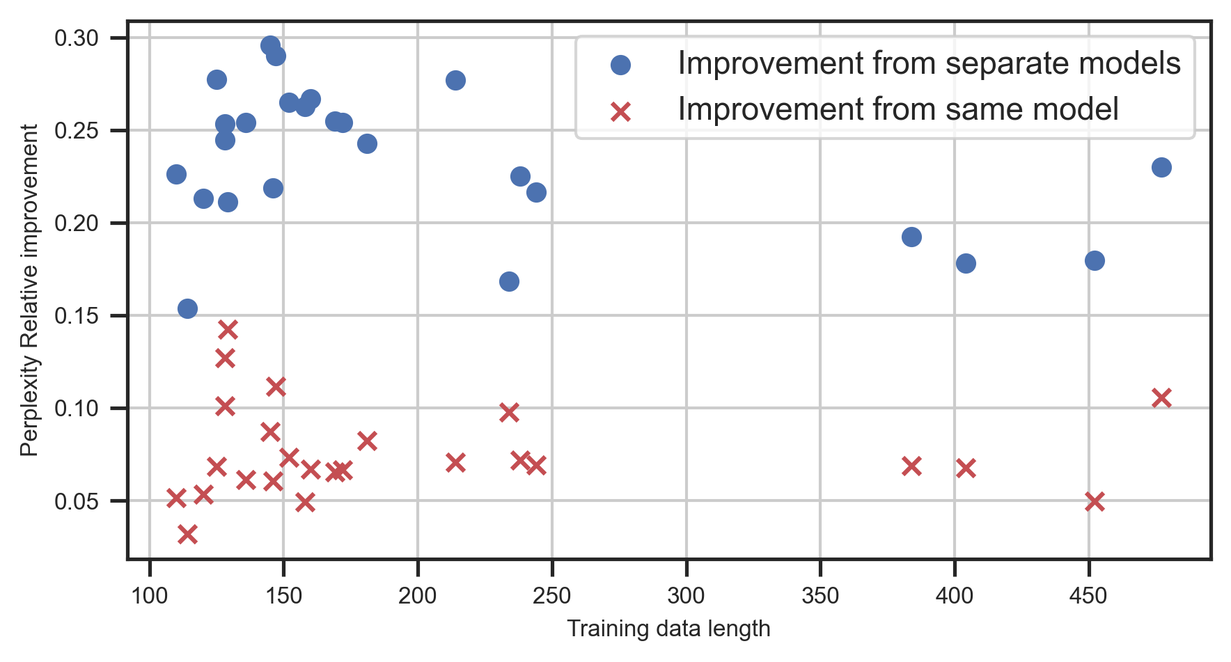
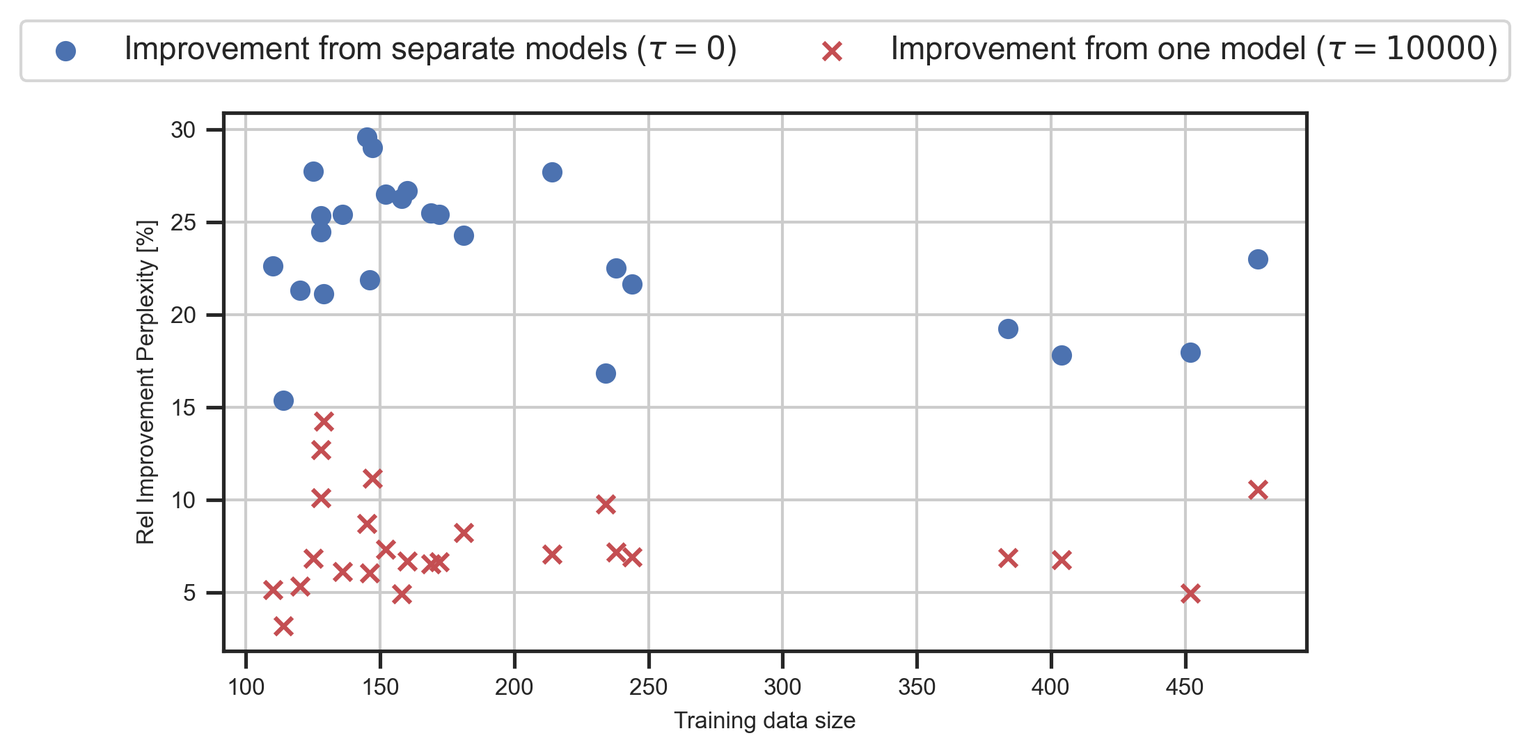
lots of writing and plots

Changed region(s): [[0.0, 0.0, 0.9955, 0.9758], [0.9333, 0.244, 0.9644, 0.2744], [0.871, 0.8843, 0.9021, 0.9148]]

diff --git a/paper/main.tex b/paper/main.tex
@@ -1,9 +1,13 @@
 \documentclass{article}
 \usepackage{graphicx} % Required for inserting images
+\usepackage{authblk}
 
-\title{HLoRA: Hierarchical Large Language Models for Multi-task problems}
-\author{simen }
-\date{November 2023}
+\title{HLoRA: Hierarchical Low-Rank Adaption for Multi-task Large Language Models}
+\author[1]{Simen Eide}
+\author[2]{Arnoldo Frigessi}
+\affil[1]{University of Oslo, Schibsted}
+\affil[1]{University of Oslo}
+\date{March 2024}
 
 \usepackage[
 backend=biber,
@@ -19,18 +23,35 @@ sorting=ynt
 \begin{document}
 
 \maketitle
+\abstract{Lorem Ipsum}
 
 \section{Introduction}
-Large Language Models (LLM) have become a popular tool for solving a wide range of text problems. LLMs are typically pretrained on a large and diverse dataset, and then fine-tuned on a specific task. The fine-tuning process is often done by minimizing the negative log-likelihood of the task-specific dataset, and the resulting model is then used to make predictions on new data. A popular fine-tuning method is Low-Rank Adaption (LoRA), which reduces the number of trainable parameters by 10'000 times and the GPU memory requirement by 3 times, while still outperforming other fine-tuning techniques (\cite{hu_lora_2021}).
+Large Language Models (LLM) have become a popular model architechture for solving a wide range of text problems. LLMs are typically pretrained on a large and diverse dataset, and then fine-tuned on a specific task. The fine-tuning process is often done by maximizing the next token log likelihood of the task-specific dataset, and the resulting model is then used to make predictions and generations on new data. A popular fine-tuning method is Low-Rank Adaption (LoRA), which reduces the number of trainable parameters by up to 10'000 times and the GPU memory requirement by 3 times, while still outperforming other fine-tuning techniques (\cite{hu_lora_2021}).
 
-This paper presents a generalization of the LoRA fine-tuning method for multi-task problems, which we refer to as Hierarchical LoRA. The Hierarchical LoRA method allows tasks to share information between each other through a global parameter set, and can be seen as a generalization of the two conventional approaches for multi-task problems: (1) finetuning each task separately, and (2) training one model for all tasks. We evaluate the Hierarchical LoRA method on a benchmark dataset, and show that there exist a trade-off between the global and task-specific parameters that can be tuned to optimize the model's performance.
+When applying fine-tuning of LLMs to problems, the practitioner often wants to solve multiple similar tasks at the same time. 
+For instance, a news organization might want to use an LLM to generate various textual elements for a given article such as headlines, keywords, and summaries, all based on the main body of the text. This would involve fine-tuning the model for each of these distinct but related tasks.
+Similarly, a customer service chatbot might need to be fine-tuned to handle inquiries across a range of topics, such as product information, order status, and troubleshooting. Additionally, the chatbot might need to adapt its responses based on the user's tone or the formality of the conversation, requiring further fine-tuning.
+In a more creative context, a scriptwriting AI might be fine-tuned to generate dialogues for different characters in a movie, each with their unique style and vocabulary. This would involve fine-tuning the model for each character, a set of related but distinct tasks.
 
-\begin{itemize}
-    \item Typically one finetune each task separately, as written in \ref{eq:lik}.
-    \item If the D tasks are more similar to eachother than the pretraining corpus, the optimal parameters $\hat{\theta}_d$ should share some information during training in order to maximize their likelihood.
-\end{itemize}
+In these cases, the practitioner can either (1) train one model for each task separately, or (2) train one model for all tasks and condition the specific output wanted (e.g \cite{Raffel2019}).
+There is a trade-off between these two approaches: Train each task separately and the model will be able to specialize on each task, but it may suffer from limited data for each task. Train one model for all tasks, and the model will be able to share information between tasks, but it may not be able to specialize on each task due to limited model capacity.
 
-\section{Related works}
+This paper suggests a way to circumvent these trade-offs and presents a generalization of the two LoRA fine-tuning methods for multi-task problems, which we call Hierarchical Low-Rank Adaption method (HLoRA).
+The Hierarchical LoRA method allows tasks to share information between each other through sharing a set of global hierarchical prior parameters. 
+This means that tasks with little data can benefit from the global structure of the related tasks, while tasks with more data can specialize on their specific task.
+We show in Section \ref{sec:hlora} that HLoRA can be seen as a generalization of the two approaches above.
+
+To test our method, we evaluate the Hierarchical LoRA method on the next token generation problem of parliament speeches letting each parliament representative be a task. In our setting, HLoRA is superior to both conventional approaches above and suggest a way to mitigate the trade-off between the two.
+% Write something about how easy it is to implement and how it can be used in practice?
+
+The paper is organized as follows: Section \ref{sec:related_works} presents related works, Section \ref{sec:method} presents the Hierarchical LoRA method, (...)
+
+% Should this fact be added somewhere?
+% If the D tasks are more similar to eachother than the pretraining corpus, the optimal parameters $\hat{\theta}_d$ should share some information during training in order to maximize their likelihood.
+
+
+\section{Related works} \label{sec:related_works}
+%%%%%%%%%%%%%%%%%%%%%%%%%%%%%%%%%%
 
 \subsection{Multi-task Learning}
 Multi-task Learning \cite{caruana_multitask_nodate} is a popular machine learning approach for training one model on multiple tasks. A common approach is to share the lower layers of a neural network between tasks, and have separate output layers for each task. Our paper focuses on a different approach, where we share information between tasks through a hierarchical prior over the task-specific parameters.
@@ -41,7 +62,9 @@ A popular approach to finetuning neural networks involves adjusting only the top
 There are several variations of the LoRA algorithm. The Sparse Mixture of Low Rank Adapters (SIRA) \cite{zhu_sira_2023}, for instance, creates a Mixture of Expert on the low-rank parameters. Another variation, the Weight Decomposed Low-Rank Adaption (DoRA) \cite{hayou_lora_2024}, decomposes the low-rank parameters into scale and unit norm direction parameters. There's also the Efficient Low Rank Adaption (LoRA+) \cite{hayou_lora_2024}, which improves the existing LoRA optimization algorithm by adjusting the learning rate of the low-rank parameters.
 All these methods are designed to improve the performance of the LoRA algorithm, and can be used in conjunction with the Hierarchical LoRA method.
 
-\section{Method: Hierarchical LLM}
+%%%%%%%%%%%%%%%%%%%%%%%%%%%%%%%%%%
+\section{Method: Hierarchical LLM} \label{sec:method}
+%%%%%%%%%%%%%%%%%%%%%%%%%%%%%%%%%%
 This section describes the Hierarchical LoRA method for multi-task problems. We start by defining the task and data structure, and then introduce the pretrained autoregressive language model. We then describe the LoRA method, and finally present our Hierarchical LoRA model.
 
 \subsection{Task and Data Structure}
@@ -74,7 +97,7 @@ where $W_{full} \in \R^{n_1 \times n_2}$ is the original pretrained weight, $B \
 
 During LoRA fine-tuning, the low-rank factors $A$ and $B$ are learned from data as normal parameter matricies, while the original pretrained weights $W_{full}$ are kept fixed.
 
-\subsection{The Hierarchical LoRA model}
+\subsection{The Hierarchical LoRA model} \label{sec:hlora}
 In the hierarchical LoRA model, we introduce a LoRA parameter set for each task $d$, denoted as $\theta_d$, containing all the low-rank decomposition matricies $A$ and $B$ from each decomposed layer in the Large Language Model. The likelihood of the data $\mathcal{D}$ given the task parameters $\theta_{1:D}$ is then given by (combining equation \ref{eq:data} and \ref{eq:LLMprob}):
 \begin{equation} \label{eq:lik}
     \text{L}(\mathcal{D} | \theta_1, \theta_2, \ldots, \theta_D) = \prod_{d=1}^D L(\mathcal{D}_d | \theta_d) = \prod_{d=1}^D \prod_{n=1}^{N_d} \prod_{i=1}^{W_n-1} \text{LLM}(w_{d,n,i+1} | w_{d,n,1:i}; \theta_d)
@@ -94,6 +117,14 @@ The posterior distribution of the hierarchical model is then given by combining 
     P(\theta_{1:D} | \mathcal{D}, \tau) \propto \prod_{d=1}^D \text{L}(\mathcal{D}_d | \theta_d) \cdot P(\theta_d | \Theta, \tau)
 \end{equation}
 %
+%
+The precision hyperparameter $\tau$ controls how much the task parameters $\theta_d$ should be allowed to deviate from the hierarchical mean parameters $\Theta$. 
+This is essentially a proxy for how much structure and information the tasks share with each other, and should be set by the practitioner based on her's prior knowledge.
+
+The resulting HLoRA model balances each task based on its data size and similarity to the other tasks: If a task has few data points, the posterior in equation \ref{eq:posterior} will be dominated by the prior term and the task parameters will be close to the global hierarchical parameters and borrow information and structure from these. On the other hand, if a task has a lot of data points, the likelihood will dominate the posterior and the task parameters will be allowed to learn more about the specific task and rely less on the hierarchical parameters.
+
+The hierarchical LoRA model can be seen as a generalization of the two conventional approaches for multi-task problems:
+If we let $\tau$ go to zero, the probability distributyion of the prior (eq. \ref{eq:prior}) will become a flat uniform prior and the problem will be equivalent to training each task independently. On the other hand, if we let $\tau$ go to infinity, the prior will become a strong constraint on the task parameters not allowing them to deviate from the global parameters, and the problem will be equivalent to training one model for all tasks.
 
 \subsection{Optimization}
 Given a precision hyperparameter, we want to find the maximum a posteriori (MAP) estimate of the hierarchical model. 
@@ -104,17 +135,8 @@ An important observation is that the gradient of the prior term in equation \ref
 Therefore, we adjust the learning rate of the AdamW optimizer to be proportional to the precision hyperparameter $\tau$, and we find in informal tests that this cause the optimizations to converge at a similar rate for different values of $\tau$.
 
 \section{Experimental setup}
+%%%%%%%%%%%%%%%%%%%%%%%%%%%%%%%%%%
 % Use the Talk of Norway Dataset consisting of speeches of Norwegian parliament politicians. We will consider different speakers of this dataset as different tasks, and see how the hierarchical model can benefit from sharing information between these tasks.
-
-% As base model, use opt-350m as it is predominantly trained on English, and only has seen a small amount of Norwegian data from the commoncrawls dataset.
-To test our method, we optimize the model with a range of different precision hyperparameters $\tau$, and evaluate the model's perplexity on the test set for each task.
-
-
-We use the Talk of Norway Dataset \cite{lapponi_talk_2018}, which consists of speeches of Norwegian parliament politicians. Each speaker will come from different political parties and geographical areas, but the tasks will still share a common domain. Therefore, we can consider different speakers of this dataset as different tasks. Specifically, we select chronologically the 25 first speakers that have above 100 speeches in the dataset.
-This gives us a total of 25 tasks with samples ranging from 110 to 477 documents, and an average of 202 documents per task.
-The distibution of samples per task can be seen in Figure \ref{fig:task_len}.
-We leave 33\% of the data for the test set.
-
 % add figure of the dataset distribution in file training_lengths.png
 \begin{figure}[h] \label{fig:task_len}
     \centering
@@ -122,41 +144,70 @@ We leave 33\% of the data for the test set.
     \caption{Number of training examples for each task}
     \label{fig:training_lengths}
 \end{figure}
+% As base model, use opt-350m as it is predominantly trained on English, and only has seen a small amount of Norwegian data from the commoncrawls dataset.
+To test our method, we optimize the model with a range of different precision hyperparameters $\tau$, and evaluate the model's perplexity on the test set for each task.
+We use the Talk of Norway Dataset \cite{lapponi_talk_2018}, which consists of speeches of Norwegian parliament politicians. Each speaker will come from different political parties and geographical areas, but the tasks will still share a common domain. Therefore, we can consider different speakers of this dataset as different tasks. Specifically, we select chronologically the 25 first speakers that have above 100 speeches in the dataset.
+This gives us a total of 25 tasks with samples ranging from 110 to 477 documents, and an average of 202 documents per task.
+The distibution of samples per task can be seen in Figure \ref{fig:task_len}.
+We leave 33\% of the data for the test set.
 
 We select a model that has been pretrained on a large and diverse dataset, but has not seen the specific tasks that we want to evaluate it on. We will use the `opt-350m` model \cite{zhang_opt_2022}, which is predominantly trained on English, and has only seen a small amount of Norwegian data from the CommonCrawls dataset.
 
-Adapting learning rate to the precision hyperparameter..
-
 \section{Results}
-The results of the hierarchical LoRA model on the Talk of Norway Dataset are shown in Table \ref{tbl:results} and Figure \ref{fig:results_plot}. We see that the model achieves the best validation perplexity of 12.82 when using a learning rate of $10^{-3}$ and a regularization constant of $10^{2}$.
-This indicates that the model benefits from sharing information between the tasks, and that the global prior helps to improve the performance of the individual task parameters.
+%%%%%%%%%%%%%%%%%%%%%%%%%%%%%%%%%%
+The overall results of the hierarchical LoRA model on the Talk of Norway Dataset are shown in Table \ref{tbl:results} and Figure \ref{fig:results_plot}. We see that the model achieves the best test perplexity of 12.82 when using a precision parameter of $100$. The improvement is largest from training the models independently ($\tau = 0$), and smaller when comparing to the limiting case when all task specific model parameters are constraint to be equal ($\tau=10000$).
 
-\begin{figure}[h]
+\begin{table}[h] \label{tbl:results}
+    \centering
+    \begin{tabular}{ccc}
+        \toprule
+        Learning Rate & Precision ($\tau$) & Test Perplexity \\
+        \midrule
+            $10^{-4}$ &              0 &                 16.80 \\
+            $10^{-5}$ &       $10^{0}$ &                 16.59 \\
+            $10^{-4}$ &       $10^{1}$ &                 12.85 \\
+            $10^{-3}$ &       $10^{2}$ &                 \textbf{12.82} \\
+            $10^{-2}$ &       $10^{3}$ &                 13.26 \\
+            $10^{-1}$ &       $10^{4}$ &                 13.91 \\
+        \bottomrule
+        \end{tabular}
+        \caption{Empirical results of the hierarchical LORA finetuned on the three tasks. The perplexity is calculated on the test set.}
+    \end{table}
+
+\begin{figure}[ht]
     \centering
     \includegraphics[width=\textwidth]{figures/results_plot.png}
-    \caption{Plot of Regularization Constant vs Perplexity}
+    \caption{Plot of Precision vs Perplexity. The thick black line is the overall test perplexity over all tasks, and the thinner grey lines are the test perplexity for each individual task.}
     \label{fig:results_plot}
 \end{figure}
 
-\begin{table}[h]
-\centering
-\caption{Empirical results of the hierarchical LORA finetuned on the three tasks. The perplexity is calculated on the test set.}
-\label{tbl:results}
-\begin{tabular}{ccc}
-    \toprule
-    Learning Rate & Regularization & Validation Perplexity \\
-    \midrule
-        $10^{-4}$ &              0 &                 16.80 \\
-        $10^{-5}$ &       $10^{0}$ &                 16.59 \\
-        $10^{-4}$ &       $10^{1}$ &                 12.85 \\
-        $10^{-3}$ &       $10^{2}$ &                 \textbf{12.82} \\
-        $10^{-2}$ &       $10^{3}$ &                 13.26 \\
-        $10^{-1}$ &       $10^{4}$ &                 13.91 \\
-    \bottomrule
-    \end{tabular}
-\end{table}
+If we consider each task separately (Table \ref{tbl:task_perplexities}), we see that all tasks benefit from a hierarchical model compared to both the case when all models are trained independently ($\tau = 0$) and the limiting case when all task specific model parameters are constraint to be equal ($\tau=10000$).
+Figure \ref{fig:relative_improvement} shows the relative improvement of each task when using the hierarchical model compared to the two cases versus their training data size. There is an indication that the improvement from training separately is larger for tasks with less data, and we do not see this for the "one model" case.
+A precision parameter of $100$ gives the best perplexity for all our tasks.
+
+\begin{figure}[h]
+    \centering
+    \includegraphics[width=\textwidth]{figures/relative_improvement_combined.png}
+    \caption{Task dataset size versus the relative improvement in perplexity of the best performing hierarchical model ($\tau = 100$) compared to the case when all models are trained independently ($\tau = 0$) in blue, and compared to the limiting case when all task specific model parameters are constraint to be equal ($\tau=10000$) in red. 
+    The figure shows that all tasks benefit from sharing parameters with the global model, and indicates that the tasks with less data benefit more than the tasks with more data.}
+    \label{fig:relative_improvement}
+\end{figure}
 
 \section{Discussion}
+%%%%%%%%%%%%%%%%%%%%%%%%%%%%%%%%%%
+Our results in Figure \ref{fig:results_plot} show that the hierarchical LoRA model can improve the test perplexity for all tasks compared to both training the models independently and training one model for all tasks. This confirms our hypothesis that HLoRA can be a useful method for multi-task problems, and that it can mitigate the trade-off between training each task separately and training one model for all tasks.
+
+We observe in Figure \ref{fig:weights_vs_datalen} that the distance between the task parameters and the global prior increases with increasing task dataset size. This is as expected in a hierarchical model, as tasks with more data will have a larger likelihood term in the posterior and will be allowed to specialize more on their specific task during training.
+
+We find no relationship between dataset size and the final perplexity (Figure \ref{fig:absolute_improvement}). One could expect that tasks with more data are able to learn more about their specific task and achieve a lower perplexity, but this is not the case in our experiments. There are many other factors that can influence the final perplexity, and we believe that this is the reason in our case.
+However, when considering the relative improvement of the best performing model, the results in Figure \ref{fig:relative_improvement} show tasks with less data may benefit more than the tasks with more data. Although a weak signal, this is an expected result, as the hierarchical model allows tasks with little data to borrow information and structure from the global model, while tasks with more data can specialize on their specific task.
+
+\begin{figure}
+    \centering
+    \includegraphics[width=\textwidth]{figures/trainingsize_vs_perplexity.png}
+    \caption{Training size vs perplexity of the best performing hierarchical model ($\tau = 100$). The figure shows that there is no strong relationship between dataset size and final perplexity.}
+    \label{fig:absolute_improvement}
+\end{figure}
 
 % Discuss overall result
 % Fetch perplexity for each task and discuss how it improves results significantly for some tasks (less data?), and less larger data tasks.
@@ -169,59 +220,61 @@ This indicates that the model benefits from sharing information between the task
     \label{fig:weights_vs_datalen} 
 \end{figure}
 
-%\end{document}
-
-
 \section{Conclusion}
-
-\section*{Background}
-Low-Rank  Adaption (LoRA) of an existing large-scale pre-trained Large Language Models (LLM) \cite{hu_lora_2021} has become a popular go-to approach when solving a specific text problem.
-
-LoRA can reduce the number of trainable parameters by 10'000 times and the GPU memory requirement by 3 times \cite{hu_lora_2021}, while still outperform other fine-tuning techniques.
-We are interested in LoRA adaptions for multi-task problems, such as the TULU-v2-mix \cite{ivison_camels_2023}.
-
-For multi-task problems there are two conventional ways of training them. You can either 
-\begin{enumerate}
-    \item finetune each task separately
-    \item train one model for all tasks (given that the textual problem contains which task is being solved for each case)
-\end{enumerate}
-
-In addition to these two approaches, we present generalization of the two approaches: the Hierarchical Low-Rank Adaption.
-Given a pretrained LLM and $n$ tasks, we construct $n$ sets of LoRA parameters $\theta_n$ that each are trained on its separate task, like in approach (1) above. In additon, we create a global parameter set $\Theta$ that works as a prior to all the task specific parameters (or be regularized towards in a frequentist vocabulary).
-The final posterior will look something like this:
-%
-\begin{equation} \label{eq:posterior}
-    \sum_{n=1}^N  \sum_{i \in D_n} P(text_i | \theta_n) + \sum_{n=1}^N N(\theta_n | \Theta, \sigma)
-\end{equation}
-%
-where
-$D_n$ is the dataset corresponding to task $n$,
-$P(text_i | \theta)$ is the likelihood of sentence $text_i$ evaluated on the parameters $\theta$,
-
-$\sigma$ is a tuning parameter for how close the task specific parameters should be to the global parameter.
-
-\paragraph{Why Hierarchical LLM?}
-The Hierarchical LoRA Language Model will allow tasks to share information between each other through the global parameter set $\Theta$.
-If a task dataset has little data, the posterior  in equation (\ref{eq:posterior}) will mainly focus on the prior, whereas if the task dataset has a lot of data, the parameters can learn more about the specific task and move away from the global "average" model.
-
-The model above can be seen as a generalisation of the two approaches above.
-As $\sigma$ goes towards zero the problem will be equal to approach (2) (assuming we have added the task in the text), 
-and as $\sigma$ goes to infinity we get $n$ independent sets of parameters optimized independently as in approach (1).
+%%%%%%%%%%%%%%%%%%%%%%%%%%%%%%%%%%
+This paper presented a generalization of the LoRA fine-tuning method for multi-task problems, which we call the Hierarchical LoRA method. The hierarchical model allows tasks to share information between each other through a set of global hierarchical prior parameters, and can be seen as a generalization of the two conventional approaches for multi-task problems. We showed that the Hierarchical LoRA model can improve the test perplexity for all tasks compared to both training the models independently and training one model for all tasks, and that it can mitigate the trade-off between the two approaches.
 
 
-\paragraph{Research Questions}
-We have the following research questions
+Future work:
 \begin{itemize}
-    \item Will a maximum a posteriori hierarchical LoRA LLM  with one adapter per task outperform a single LoRA with the equivalent number of trainable parameters?
-    \item Privacy: Will training a Hierarchical LoRA on multiple tasks be more privacy friendly than training on two tasks jointly?
-    \item Will a posterior distribution of a LoRA LLM have "better" diversity/exploration than the sampling techniques currently used (p-sampling, nucleus samplng)
+    \item Investigate the effect of the hierarchical model on more tasks and datasets
+    \item Investigate the capacity of the global model
+    \item Investigate with varying capacity
+    \item Compute the full posterior and see if it can be used to explore better in text generation
 \end{itemize}
 
-\paragraph{Evaluation}
-We want to evaluate our research questions by (1) evaluating it on an open benchmark (TULU-v2-mix \cite{ivison_camels_2023}), (2) an evaluation by an GPT-4 agent, and (3) an online evaluation as a journalistic assistant in a news media article CMS, suggesting article attributes such as titles and tags.
-
-
-
 \printbibliography
+
+\appendix
+\section{Task specific test perplexities}
+Table \ref{tbl:task_perplexities} shows the test perplexities for each task when using the hierarchical LoRA model with different precision hyperparameters $\tau$.
+
+\begin{table}[ht] \label{tbl:task_perplexities}
+    \centering
+    \caption{Test perplexity for each task and precision hyperparameter $\tau$}
+    \begin{tabular}{lrrrrrr}
+        \toprule
+        tau & 0     & 1     & 10    &          100   & 1000  & 10000 \\
+        Task                   &       &       &       &                &       &       \\
+        \midrule
+        abid q raja            & 15.56 & 15.20 & 12.57 & \textbf{11.60} & 11.91 & 12.41 \\
+        akhtar chaudhry        & 14.78 & 14.37 & 12.01 & \textbf{11.43} & 11.66 & 12.06 \\
+        aksel hagen            & 15.88 & 15.30 & 12.68 & \textbf{11.84} & 12.26 & 12.61 \\
+        alf egil holmelid      & 16.96 & 16.86 & 13.97 & \textbf{12.66} & 13.35 & 14.51 \\
+        anders b werp          & 16.86 & 16.35 & 13.04 & \textbf{11.87} & 12.54 & 13.00 \\
+        andré n skjelstad      & 15.53 & 15.23 & 12.59 & \textbf{11.58} & 11.98 & 12.41 \\
+        andré oktay dahl       & 16.01 & 15.85 & 13.50 & \textbf{12.55} & 12.88 & 13.48 \\
+        anette trettebergstuen & 15.98 & 15.73 & 13.43 & \textbf{12.57} & 12.90 & 13.28 \\
+        anita apelthun sæle    & 25.44 & 25.42 & 21.04 & \textbf{19.21} & 20.16 & 21.37 \\
+        anne tingelstad wøien  & 16.41 & 16.23 & 13.60 & \textbf{12.43} & 12.90 & 13.54 \\
+        anniken huitfeldt      & 14.44 & 14.39 & 12.33 & \textbf{11.66} & 12.05 & 12.53 \\
+        ansgar gabrielsen      & 16.10 & 16.16 & 14.07 & \textbf{13.23} & 13.68 & 14.19 \\
+        arild grande           & 16.65 & 16.29 & 13.31 & \textbf{12.21} & 12.56 & 13.08 \\
+        arne lyngstad          & 15.57 & 15.28 & 12.12 & \textbf{11.25} & 11.66 & 12.08 \\
+        arve kambe             & 17.78 & 17.40 & 14.24 & \textbf{13.11} & 13.43 & 13.79 \\
+        asmund kristoffersen   & 17.15 & 16.75 & 13.63 & \textbf{12.61} & 13.03 & 13.61 \\
+        audun lysbakken        & 15.21 & 15.25 & 13.22 & \textbf{12.48} & 12.67 & 13.13 \\
+        bendiks h arnesen      & 14.34 & 14.23 & 12.04 & \textbf{11.11} & 11.42 & 11.97 \\
+        bente thorsen          & 16.35 & 15.88 & 12.87 & \textbf{11.60} & 12.28 & 13.06 \\
+        bjørg tørresdal        & 16.02 & 15.65 & 12.78 & \textbf{11.58} & 11.92 & 12.46 \\
+        bjørn hernæs           & 16.33 & 15.94 & 13.68 & \textbf{12.76} & 13.08 & 13.58 \\
+        bjørn jacobsen         & 22.28 & 22.87 & 19.54 & \textbf{18.52} & 19.05 & 20.53 \\
+        bjørn lødemel          & 22.91 & 24.09 & 19.65 & \textbf{18.08} & 19.39 & 21.08 \\
+        bjørn tore godal       & 16.57 & 16.30 & 14.55 & \textbf{14.02} & 14.22 & 14.48 \\
+        borghild tenden        & 14.42 & 14.84 & 12.12 & \textbf{11.10} & 11.68 & 12.41 \\
+        \bottomrule
+    \end{tabular}
+\end{table}
+
 
 \end{document}
